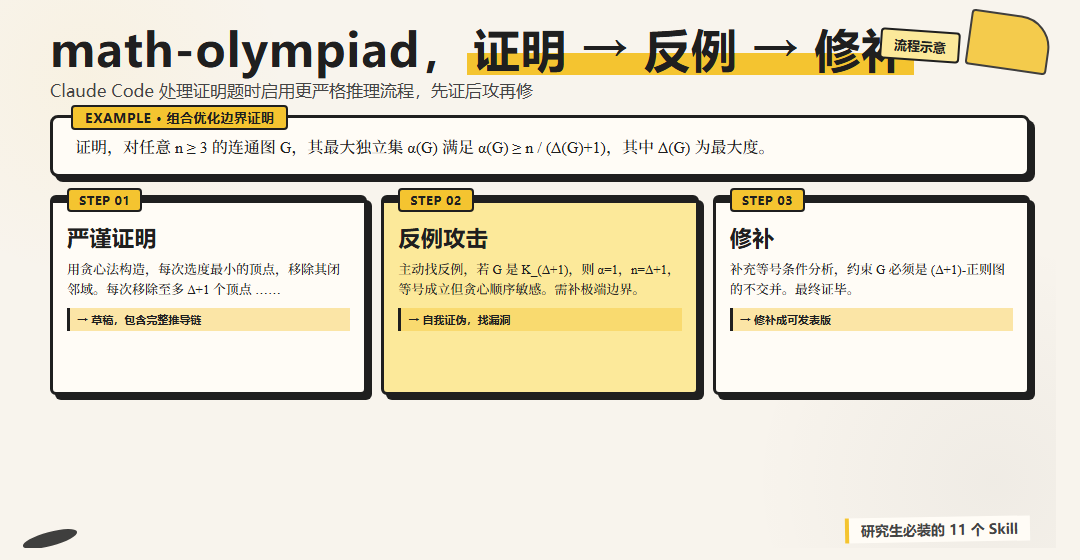
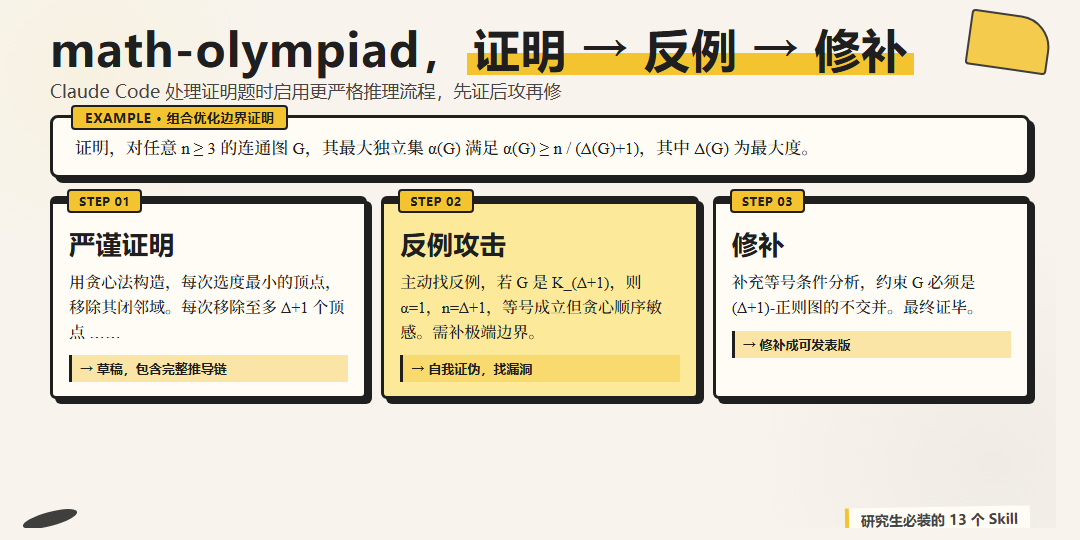
Polish img-13 + img-15: bigger fonts, tighter footers
img-13-math-olympiad.png (canvas 560→540):
- Removed 「流程示意」 demo-tag (was overlapping with the 「修补」
  card text per user report)
- step-name 22px → 26px (card headers 严谨证明 / 反例攻击 / 修补
  much more legible at thumbnail scale)
- step-text 13px → 16px (proof narrative readable on phone)
- step-out 11px → 13px (the yellow takeaway line)
- subtitle 17px → 18px, margin-bottom 14→12
- footer bottom 18px → 8px (tucked right under the pipeline row)
- footer text fix 「11 个 Skill」 → 「13 个 Skill」 (lingering
  string from the 11-skill era)

img-15-checklist.png (canvas 720→760 to absorb font growth):
- cell-name (skill 英文) 16px → 20px (the main scan target)
- cell-cat 17px → 19px, row.head 18px → 20px (column alignment)
- cell-pri-must 18px → 20px, cell-pri-cond/keep 14px → 16px
- cell padding 12 → 13 (slightly taller rows for balance)
- footer bottom 18px → 8px (right under the table, no orphan gap)

mdnice version regenerated to point at the updated CDN assets.

diff --git a/img-13-math-olympiad.html b/img-13-math-olympiad.html
@@ -2,29 +2,27 @@
 <html lang="en"><head><meta charset="UTF-8"><title>img-13</title>
 <style>
   *{margin:0;padding:0;box-sizing:border-box}
-  html,body{width:1080px;height:560px;overflow:hidden}
+  html,body{width:1080px;height:540px;overflow:hidden}
   body{background:#F8F4ED;background-image:radial-gradient(circle at 8% 14%,rgba(244,196,48,.06) 0,transparent 18%),radial-gradient(circle at 92% 86%,rgba(31,31,31,.04) 0,transparent 22%);font-family:'PingFang SC','Hiragino Sans GB','Microsoft YaHei',sans-serif;color:#1F1F1F;padding:24px 50px;position:relative}
   body::before{content:'';position:absolute;top:14px;right:30px;width:78px;height:52px;background:#F4C430;opacity:.85;border:2.5px solid #1F1F1F;border-radius:4px 32px 4px 4px;transform:rotate(8deg)}
   body::after{content:'';position:absolute;bottom:14px;left:22px;width:56px;height:14px;background:#1F1F1F;border-radius:50%;transform:rotate(-15deg);opacity:.85}
   .title{font-size:46px;font-weight:900;letter-spacing:1px;margin-bottom:4px;line-height:1.1}
   .title .hl{background:linear-gradient(transparent 58%,#F4C430 58%,#F4C430 94%,transparent 94%);padding:0 6px}
-  .subtitle{font-size:17px;color:#444;margin-bottom:14px;font-weight:500}
-  .demo-tag{position:absolute;top:30px;right:120px;background:#FCE99A;border:2.5px solid #1F1F1F;padding:5px 12px;border-radius:4px;font-size:13px;font-weight:800;transform:rotate(4deg);color:#1F1F1F}
+  .subtitle{font-size:18px;color:#444;margin-bottom:12px;font-weight:500}
   .qbox{background:#FFFCF6;border:3px solid #1F1F1F;border-radius:8px;padding:14px 22px;box-shadow:5px 5px 0 #1F1F1F;margin-bottom:18px;position:relative}
   .qbox-tag{position:absolute;top:-13px;left:18px;background:#F4C430;border:2.5px solid #1F1F1F;padding:2px 12px;border-radius:4px;font-size:13px;font-weight:800;letter-spacing:0.5px}
-  .qbox-text{font-family:'Times New Roman','PingFang SC',serif;font-size:16px;line-height:1.5;font-weight:500;margin-top:4px}
+  .qbox-text{font-family:'Times New Roman','PingFang SC',serif;font-size:17px;line-height:1.5;font-weight:500;margin-top:4px}
   .pipeline{display:flex;gap:14px;align-items:stretch}
-  .step{flex:1;background:#FFFCF6;border:3px solid #1F1F1F;border-top:8px solid #1F1F1F;border-radius:6px;padding:14px 14px 12px;box-shadow:5px 5px 0 #1F1F1F;position:relative;min-height:200px}
+  .step{flex:1;background:#FFFCF6;border:3px solid #1F1F1F;border-top:8px solid #1F1F1F;border-radius:6px;padding:16px 16px 14px;box-shadow:5px 5px 0 #1F1F1F;position:relative;min-height:200px}
   .step:nth-child(2){background:#FCE99A}
   .step-num{position:absolute;top:-15px;left:14px;background:#F4C430;color:#1F1F1F;padding:2px 10px;border:2.5px solid #1F1F1F;border-radius:4px;font-size:12px;font-weight:900;letter-spacing:0.5px}
-  .step-name{font-size:22px;font-weight:900;letter-spacing:0.5px;margin-bottom:8px;margin-top:6px}
-  .step-text{font-family:'Times New Roman','PingFang SC',serif;font-size:13px;line-height:1.55;color:#1F1F1F;font-weight:500}
-  .step-out{font-size:11px;color:#1F1F1F;background:rgba(244,196,48,.4);padding:4px 7px;margin-top:8px;border-left:3px solid #1F1F1F;font-weight:700}
-  .footer{position:absolute;bottom:18px;right:50px;font-size:14px;color:#444;background:#FFFCF6;border-left:4px solid #F4C430;padding:3px 12px;transform:rotate(-1deg);font-weight:600}
+  .step-name{font-size:26px;font-weight:900;letter-spacing:0.5px;margin-bottom:10px;margin-top:6px}
+  .step-text{font-family:'Times New Roman','PingFang SC',serif;font-size:16px;line-height:1.55;color:#1F1F1F;font-weight:500}
+  .step-out{font-size:13px;color:#1F1F1F;background:rgba(244,196,48,.4);padding:5px 8px;margin-top:10px;border-left:3px solid #1F1F1F;font-weight:700}
+  .footer{position:absolute;bottom:8px;right:50px;font-size:14px;color:#444;background:#FFFCF6;border-left:4px solid #F4C430;padding:3px 12px;transform:rotate(-1deg);font-weight:600}
 </style></head><body>
   <div class="title">math-olympiad，<span class="hl">证明 → 反例 → 修补</span></div>
   <div class="subtitle">Claude Code 处理证明题时启用更严格推理流程，先证后攻再修</div>
-  <div class="demo-tag">流程示意</div>
   <div class="qbox">
     <span class="qbox-tag">EXAMPLE · 组合优化边界证明</span>
     <div class="qbox-text">证明，对任意 n ≥ 3 的连通图 G，其最大独立集 α(G) 满足 α(G) ≥ n / (Δ(G)+1)，其中 Δ(G) 为最大度。</div>
@@ -34,5 +32,5 @@
     <div class="step"><span class="step-num">STEP 02</span><div class="step-name">反例攻击</div><div class="step-text">主动找反例，若 G 是 K_(Δ+1)，则 α=1，n=Δ+1，等号成立但贪心顺序敏感。需补极端边界。</div><div class="step-out">→ 自我证伪，找漏洞</div></div>
     <div class="step"><span class="step-num">STEP 03</span><div class="step-name">修补</div><div class="step-text">补充等号条件分析，约束 G 必须是 (Δ+1)-正则图的不交并。最终证毕。</div><div class="step-out">→ 修补成可发表版</div></div>
   </div>
-  <div class="footer">研究生必装的 11 个 Skill</div>
+  <div class="footer">研究生必装的 13 个 Skill</div>
 </body></html>

diff --git a/img-15-checklist.html b/img-15-checklist.html
@@ -2,7 +2,7 @@
 <html lang="en"><head><meta charset="UTF-8"><title>img-15</title>
 <style>
   *{margin:0;padding:0;box-sizing:border-box}
-  html,body{width:1080px;height:720px;overflow:hidden}
+  html,body{width:1080px;height:760px;overflow:hidden}
   body{background:#F8F4ED;background-image:radial-gradient(circle at 8% 14%,rgba(244,196,48,.06) 0,transparent 18%),radial-gradient(circle at 92% 86%,rgba(31,31,31,.04) 0,transparent 22%);font-family:'PingFang SC','Hiragino Sans GB','Microsoft YaHei',sans-serif;color:#1F1F1F;padding:24px 50px;position:relative}
   body::before{content:'';position:absolute;top:14px;right:30px;width:78px;height:52px;background:#F4C430;opacity:.85;border:2.5px solid #1F1F1F;border-radius:4px 32px 4px 4px;transform:rotate(8deg)}
   body::after{content:'';position:absolute;bottom:14px;left:22px;width:56px;height:14px;background:#1F1F1F;border-radius:50%;transform:rotate(-15deg);opacity:.85}
@@ -12,16 +12,16 @@
   .table{background:#FFFCF6;border:3px solid #1F1F1F;border-radius:8px;box-shadow:5px 5px 0 #1F1F1F;overflow:hidden}
   .row{display:grid;grid-template-columns:120px 1fr 200px;gap:0;border-bottom:2px solid #1F1F1F}
   .row:last-child{border-bottom:none}
-  .row.head{background:#F4C430;font-weight:900;font-size:18px;letter-spacing:0.5px}
-  .cell{padding:12px 18px;border-right:2px dashed #1F1F1F;display:flex;align-items:center}
+  .row.head{background:#F4C430;font-weight:900;font-size:20px;letter-spacing:0.5px}
+  .cell{padding:13px 18px;border-right:2px dashed #1F1F1F;display:flex;align-items:center}
   .cell:last-child{border-right:none}
-  .cell-cat{font-weight:800;font-size:17px}
-  .cell-name{font-family:'JetBrains Mono','Consolas',monospace;font-size:16px;font-weight:700}
-  .cell-pri-must{background:rgba(244,196,48,0.5);font-weight:900;color:#1F1F1F;font-size:18px}
-  .cell-pri-cond{background:rgba(252,233,154,0.5);font-weight:700;color:#1F1F1F;font-size:14px}
-  .cell-pri-keep{font-weight:600;color:#666;font-size:14px}
+  .cell-cat{font-weight:800;font-size:19px}
+  .cell-name{font-family:'JetBrains Mono','Consolas',monospace;font-size:20px;font-weight:700}
+  .cell-pri-must{background:rgba(244,196,48,0.5);font-weight:900;color:#1F1F1F;font-size:20px}
+  .cell-pri-cond{background:rgba(252,233,154,0.5);font-weight:700;color:#1F1F1F;font-size:16px}
+  .cell-pri-keep{font-weight:600;color:#666;font-size:16px}
   .stamp{position:absolute;left:50px;bottom:30px;background:#F4C430;color:#1F1F1F;padding:10px 18px;border:3px solid #1F1F1F;border-radius:6px;font-size:16px;font-weight:800;transform:rotate(-3deg);box-shadow:4px 4px 0 #1F1F1F;line-height:1.35}
-  .footer{position:absolute;bottom:18px;right:50px;font-size:14px;color:#444;background:#FFFCF6;border-left:4px solid #F4C430;padding:3px 12px;transform:rotate(-1deg);font-weight:600}
+  .footer{position:absolute;bottom:8px;right:50px;font-size:14px;color:#444;background:#FFFCF6;border-left:4px solid #F4C430;padding:3px 12px;transform:rotate(-1deg);font-weight:600}
 </style></head><body>
   <div class="title">研究生必装清单，<span class="hl">13 项打表对照</span></div>
   <div class="subtitle">这是我研究生这两年沉淀下来的合集 · 12-15 个是健康水位</div>

diff --git a/分享我觉得研究生必装的13个skill.md b/分享我觉得研究生必装的13个skill.md
@@ -38,8 +38,6 @@
 
 superpowers 不是单一 skill，是一整个 plugin 包，里面有 14 个内置子 skill。把它们串起来就是一条完整的「想 → 设计 → 实现 → 验证 → 收尾」工作流。
 
-我自己最常用的几个，brainstorming（开新项目时的需求探索）、writing-plans（把头脑风暴的东西落成可执行计划）、executing-plans（按计划逐步实现）、systematic-debugging（出 bug 了走根因分析而不是瞎试）、test-driven-development（写代码先写测试）。
-
 ![superpowers 全家桶项目级工作流](img-6-superpowers-flow.png)
 
 这套东西最大的好处，它强迫你按工程的思路推进项目。
@@ -76,7 +74,7 @@ Anthropic 官方出品的四件套，公众号上有很多人推过。
 
 ![hv-analysis 跑出的 Harness Engineering 研究报告片段](img-9-hv-axes.png)
 
-触发方式，「研究一下 X」「调研一下 Y」「帮我深度分析 Z」「帮我看看这个东西怎么样」都会触发。
+触发方式，「用横纵分析法研究一下 X」「调研一下 Y」「帮我深度分析 Z」「帮我看看这个东西怎么样」都会触发。
 
 一句话安装命令，对 Claude Code 说,
 
@@ -88,11 +86,11 @@ Anthropic 官方出品的四件套，公众号上有很多人推过。
 
 它做的事，Claude Code 默认的 WebFetch 工具只能访问公开网页，登录态的、动态渲染的、反爬严格的都拿不到。web-access 通过 Chrome DevTools Protocol 直连本地浏览器，带着你的登录态去抓内容。
 
-小红书、B 站、微博、飞书、知识星球，这些站内内容都能读。还能自动沉淀每个网站的操作经验，按域名存操作记录。
+小红书、B 站、微博、飞书、知识星球，这些站内内容都能读。还能自动沉淀每个网站的操作经验，按域名存操作记录。对于研究生，可以用来批量化下载论文。
 
 ![web-access 带登录态抓站内内容](img-11-web-access.png)
 
-触发方式，「去小红书搜一下 X」「帮我抓一下这个微信公众号文章」「访问一下我那个飞书文档」，自动调用。
+触发方式，「请帮我联网下载**论文」「帮我抓一下这个微信公众号文章」「访问一下我那个飞书文档」，自动调用。
 
 注意，这 skill 装好之后需要 Chrome 最新版 + 允许远程调试（chrome://inspect/#remote-debugging）。如果不开调试端口，Claude Code 连不上你的浏览器。
 
